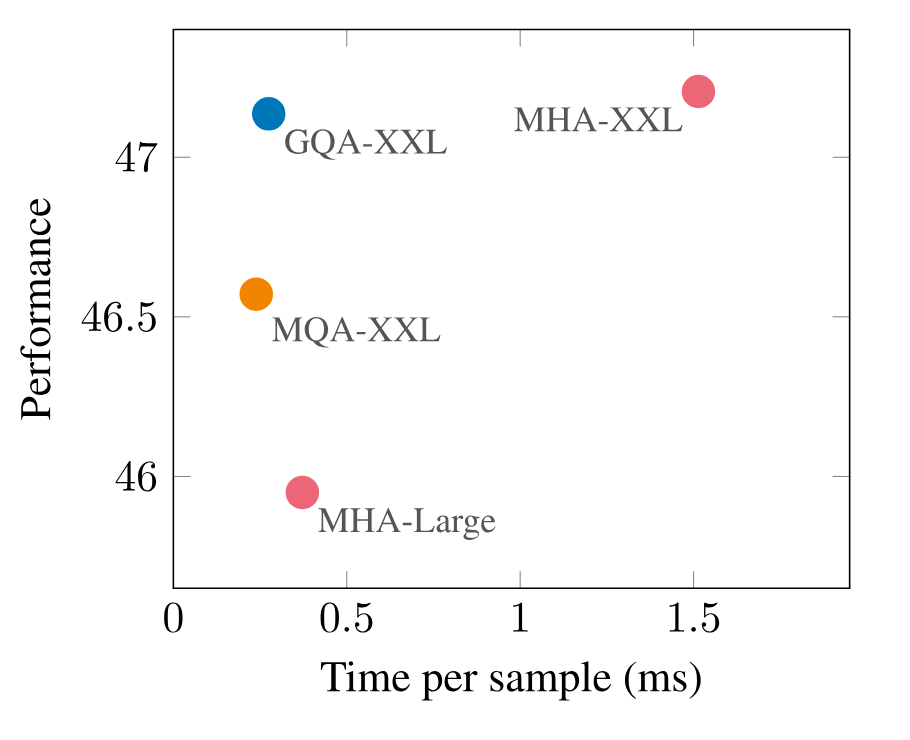
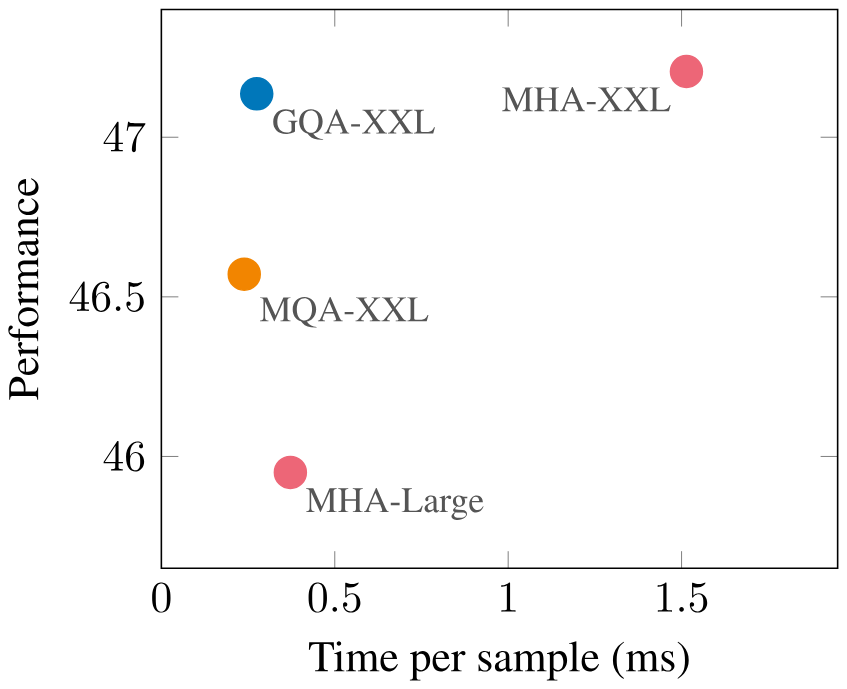
fix: tighten GQA screenshot crops

diff --git a/AGENTS.md b/AGENTS.md
@@ -40,6 +40,8 @@ There is no automated test framework or coverage requirement. The required check
 
 For browser-based visual checks, use the connected Chrome browser when it is available. A failed generic or default browser lookup does not prove that Chrome is unavailable; when Chrome is requested, select the Chrome connection explicitly and verify it before reporting a limitation. Start the local development server on an explicit loopback port, inspect every affected route at desktop and mobile viewport sizes, confirm images are loaded and do not introduce horizontal overflow, then reset temporary viewport overrides and close test tabs.
 
+For paper figure and table screenshots, crop the complete visual object with only a small, even whitespace margin on all four sides. Do not include surrounding body prose, printed captions, or explanatory text outside the figure or table. Inspect the rendered PNG at actual pixels and adjust the crop until no meaningful stroke or glyph touches an edge and no side retains excessive whitespace.
+
 After testing, stop any local development or preview servers started for the task. Do not leave test servers running when handing off the completed work.
 
 ## Add Paper Skill
